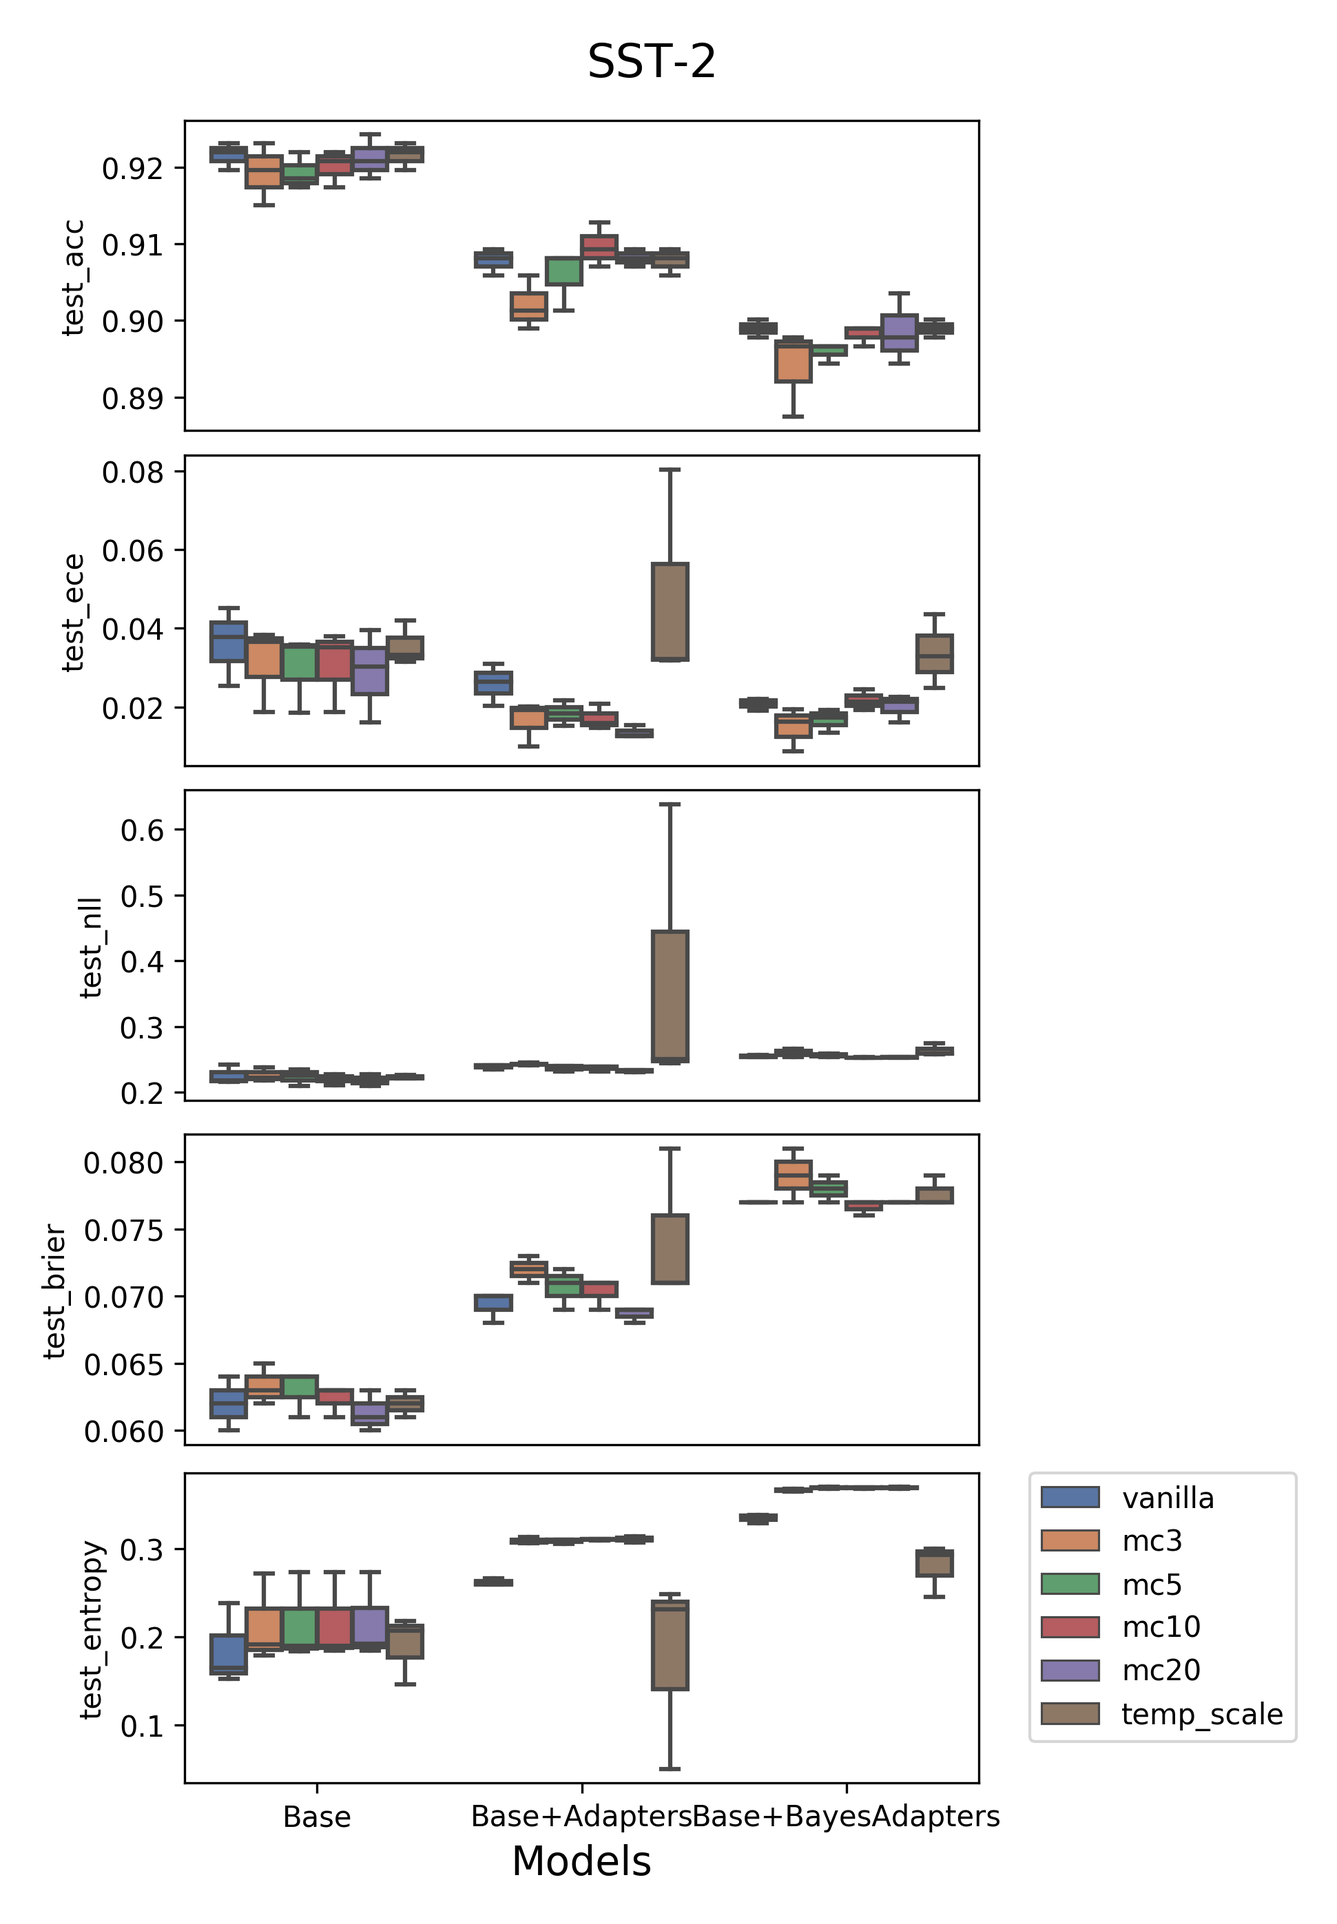
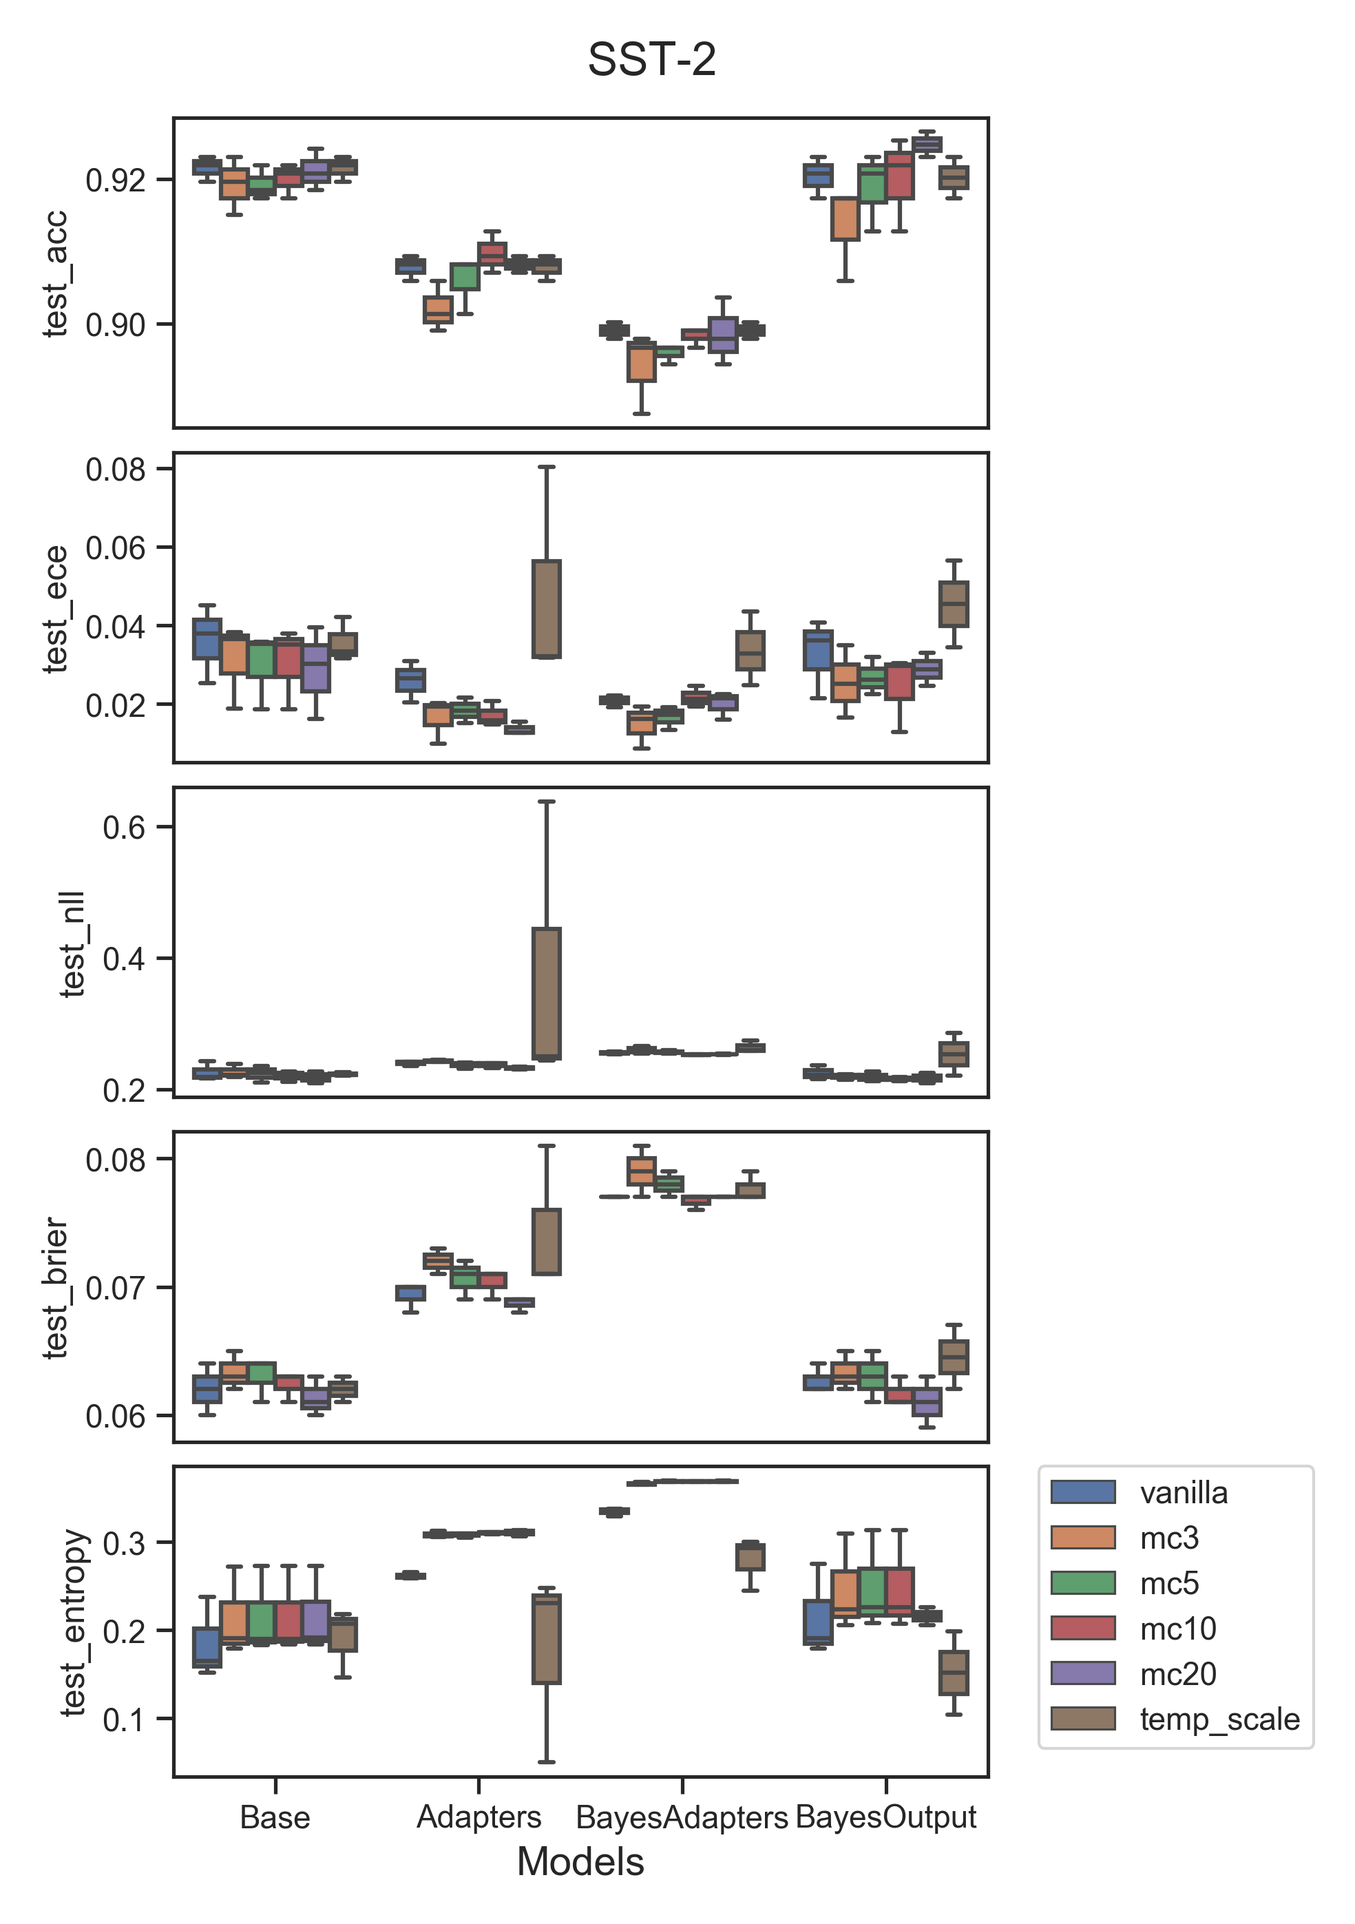
added reliability diagrams

Changed region(s): [[0.0309, 0.0623, 0.9583, 0.9964], [0.4328, 0.0, 0.5255, 0.0623]]

diff --git a/src/plotting.py b/src/plotting.py
@@ -3,14 +3,11 @@ import os
 import sys
 
 import matplotlib
-from matplotlib.backends.backend_pdf import PdfPages
 
-from src.general import create_dir
 from sys_config import RES_DIR
 
 matplotlib.use('Agg')
 import matplotlib.pyplot as plt
-import matplotlib.style as style
 import seaborn as sns
 import pandas as pd
 import numpy as np
@@ -18,18 +15,16 @@ import numpy as np
 sys.path.append("../../")
 sys.path.append(os.path.dirname(os.path.dirname(os.path.dirname(__file__))))
 
-# from sys_config import FIG_DIR
-# from utilities.general import create_dir
 
 def read_results_json(seeds, path, learning_rate, per_gpu_train_batch_size, num_train_epochs,
-                      indicators, methods, task_name, identity_init=False, bayes_output=False):
+                      indicators, methods, task_name, identity_init=False, ece=False):
     df = pd.DataFrame()
     for seed in seeds:
         exp_path = os.path.join(path, 'seed_{}_lr_{}_bs_{}_epochs_{}'.format(seed, learning_rate,
-                                                                            per_gpu_train_batch_size,
-                                                                            int(num_train_epochs)))
+                                                                             per_gpu_train_batch_size,
+                                                                             int(num_train_epochs)))
         if identity_init: exp_path += '_identity_init'
-        if identity_init: exp_path += '_bayes_output'
+
         if not os.path.exists(exp_path): pass
         df_ = pd.DataFrame()
         for ind in indicators:
@@ -42,41 +37,61 @@ def read_results_json(seeds, path, learning_rate, per_gpu_train_batch_size, num_
                 else:
                     with open(res_path) as json_file:
                         results = json.load(json_file)
-                        if ind is None: _ind = 'Base'
-                        if ind=='adapter': _ind = 'Adapters'
-                        if ind=='bayes_adapter': _ind = 'BayesAdapters'
-                        if ind=='bayes_adapter' and identity_init: _ind = 'BayesAdapters+Identity'
-                        if bayes_output: _ind = 'BayesOutput'
+                        if ece:
+                            val_results_bins = results['val_results']['ece']['bins']
+                            test_results_bin = results['test_results']['ece']['bins']
+                            df0 = pd.DataFrame(
+                                {'val_accs': [a['acc'] if a['acc'] != 0.0 else None for bin, a in
+                                              val_results_bins.items()],
+                                 'val_confs': [a['conf'] if a['acc'] != 0.0 else None for bin, a in
+                                               val_results_bins.items()],
+                                 'test_accs': [a['acc'] if a['acc'] != 0.0 else None for bin, a in
+                                               test_results_bin.items()],
+                                 'test_confs': [a['conf'] if a['acc'] != 0.0 else None for bin, a in
+                                                test_results_bin.items()],
+                                 'bins': list(np.arange(0.5, 10.5, 1) * 0.1)})
+                            df0['method'] = method
+                            if ind is None: _ind = 'Base'
+                            if ind == 'adapter': _ind = 'Adapters'
+                            if ind == 'bayes_adapter': _ind = 'BayesAdapters'
+                            if ind == 'bayes_adapter' and identity_init: _ind = 'BayesAdapters+Identity'
+                            if ind == 'bayes_output': _ind = 'BayesOutput'
+                            df0['indicator'] = _ind
+                        else:
+                            if ind is None: _ind = 'Base'
+                            if ind == 'adapter': _ind = 'Adapters'
+                            if ind == 'bayes_adapter': _ind = 'BayesAdapters'
+                            if ind == 'bayes_adapter' and identity_init: _ind = 'BayesAdapters+Identity'
+                            if ind == 'bayes_output': _ind = 'BayesOutput'
 
-                        val_results = results['val_results']
-                        test_results = results['test_results']
-                        df0 = pd.DataFrame(
-                            {'val_acc': val_results['acc'],
-                             'val_ece': val_results['ece']['ece'],
-                             'val_nll': val_results['nll']['mean'],
-                             'val_entropy': val_results['entropy']['mean'],
-                             'val_brier': val_results['brier']['mean'],
-                             'test_acc': test_results['acc'],
-                             'test_ece': test_results['ece']['ece'],
-                             'test_nll': test_results['nll']['mean'],
-                             'test_entropy': test_results['entropy']['mean'],
-                             'test_brier': test_results['brier']['mean'],
-                             'method': method,
-                             'indicator':_ind}, index=[0])
+                            val_results = results['val_results']
+                            test_results = results['test_results']
+                            df0 = pd.DataFrame(
+                                {'val_acc': val_results['acc'],
+                                 'val_ece': val_results['ece']['ece'],
+                                 'val_nll': val_results['nll']['mean'],
+                                 'val_entropy': val_results['entropy']['mean'],
+                                 'val_brier': val_results['brier']['mean'],
+                                 'test_acc': test_results['acc'],
+                                 'test_ece': test_results['ece']['ece'],
+                                 'test_nll': test_results['nll']['mean'],
+                                 'test_entropy': test_results['entropy']['mean'],
+                                 'test_brier': test_results['brier']['mean'],
+                                 'method': method,
+                                 'indicator': _ind}, index=[0])
                         df_ = df_.append(df0, ignore_index=True)
 
-                    # df_['val_acc'] = val_acc
                     df_['dataset'] = task_name
                     df_['seed'] = seed
-                    # df_['num_samples'] = num_samples
 
         df = df.append(df_, ignore_index=True)
     return df
 
-def uncertainty_plot(task_name, seeds, model_type='bert', learning_rate='2e-05', per_gpu_train_batch_size=16,
-                     num_train_epochs='3', indicators=None, methods=["vanilla", "mc3", "mc5", "mc10", "mc20", "temp_scale"],
-                     identity_init=False, bayes_output=False):
 
+def uncertainty_plot(task_name, seeds, model_type='bert', learning_rate='2e-05', per_gpu_train_batch_size=16,
+                     num_train_epochs='3', indicators=None,
+                     methods=["vanilla", "mc3", "mc5", "mc10", "mc20", "temp_scale"],
+                     identity_init=False):
     path = os.path.join(RES_DIR, '{}_{}_100%'.format(task_name, model_type))
     if not os.path.exists(path): return
 
@@ -90,70 +105,17 @@ def uncertainty_plot(task_name, seeds, model_type='bert', learning_rate='2e-05',
     df = df.append(df_, ignore_index=True)
     if identity_init:
         df_ = read_results_json(seeds, path, learning_rate, per_gpu_train_batch_size, num_train_epochs,
-                            indicators, methods, task_name, identity_init=True)
+                                indicators, methods, task_name, identity_init=True)
         df = df.append(df_, ignore_index=True)
-    if bayes_output:
-        df_ = read_results_json(seeds, path, learning_rate, per_gpu_train_batch_size, num_train_epochs,
-                            indicators, methods, task_name, bayes_output=True)
-        df = df.append(df_, ignore_index=True)
-    # for seed in seeds:
-    #     exp_path = os.path.join(path, 'seed_{}_lr_{}_bs_{}_epochs_{}'.format(seed, learning_rate,
-    #                                                                         per_gpu_train_batch_size,
-    #                                                                         int(num_train_epochs)))
-    #     if identity_init: exp_path += '_identity_init'
-    #     if not os.path.exists(exp_path): pass
-    #     df_ = pd.DataFrame()
-    #     for ind in indicators:
-    #         for method in methods:
-    #             res_filename = '{}_results'.format(method)
-    #             if ind is not None: res_filename += '_{}'.format(ind)
-    #             res_path = os.path.join(exp_path, "{}.json".format(res_filename))
-    #             if not os.path.exists(res_path):
-    #                 pass
-    #             else:
-    #                 with open(res_path) as json_file:
-    #                     results = json.load(json_file)
-    #                     if ind is None: _ind = 'Base'
-    #                     if ind=='adapter': _ind = 'Base+Adapters'
-    #                     if ind=='bayes_adapter': _ind = 'Base+BayesAdapters'
-    #
-    #                     val_results = results['val_results']
-    #                     test_results = results['test_results']
-    #                     df0 = pd.DataFrame(
-    #                         {'val_acc': val_results['acc'],
-    #                          'val_ece': val_results['ece']['ece'],
-    #                          'val_nll': val_results['nll']['mean'],
-    #                          'val_entropy': val_results['entropy']['mean'],
-    #                          'val_brier': val_results['brier']['mean'],
-    #                          'test_acc': test_results['acc'],
-    #                          'test_ece': test_results['ece']['ece'],
-    #                          'test_nll': test_results['nll']['mean'],
-    #                          'test_entropy': test_results['entropy']['mean'],
-    #                          'test_brier': test_results['brier']['mean'],
-    #                          'method': method,
-    #                          'indicator':_ind}, index=[0])
-    #                     df_ = df_.append(df0, ignore_index=True)
-    #
-    #                 # df_['val_acc'] = val_acc
-    #                 df_['dataset'] = task_name
-    #                 df_['seed'] = seed
-    #                 # df_['num_samples'] = num_samples
-    #
-    #     df = df.append(df_, ignore_index=True)
-    # df = df_
+
     if not df.empty:
-        # df['indicator'].loc[(df['indicator'] == None)] = 'Base'
 
         for d in ['test', 'val']:
             fig, (ax1, ax2, ax3, ax4, ax5) = plt.subplots(5, sharex=True, figsize=(6.0, 9.0), constrained_layout=True)
-            # sns.boxplot(x="num_samples", y="ece", hue="method", data=df, ax=ax1, palette=sns.color_palette("hls", 5))
             sns.boxplot(x='indicator', y="{}_acc".format(d), hue="method", data=df, ax=ax1, palette="deep")
             sns.boxplot(x='indicator', y="{}_ece".format(d), hue="method", data=df, ax=ax2, palette="deep")
-            # sns.boxplot(x="num_samples", y="nll", hue="method", data=df, ax=ax2, palette=sns.color_palette("hls", 5))
             sns.boxplot(x='indicator', y="{}_nll".format(d), hue="method", data=df, ax=ax3, palette="deep")
-            # sns.boxplot(x="num_samples", y="brier", hue="method", data=df, ax=ax3, palette=sns.color_palette("hls", 5))
             sns.boxplot(x='indicator', y="{}_brier".format(d), hue="method", data=df, ax=ax4, palette="deep")
-            # sns.boxplot(x="num_samples", y="entropy", hue="method", data=df, ax=ax4, palette=sns.color_palette("hls", 5))
             sns.boxplot(x='indicator', y="{}_entropy".format(d), hue="method", data=df, ax=ax5, palette="deep")
 
             if task_name == "ag_news":
@@ -182,32 +144,114 @@ def uncertainty_plot(task_name, seeds, model_type='bert', learning_rate='2e-05',
             filename = "uncertainty_plot_{}".format(d)
             if identity_init: filename += '_identity'
 
-            # unc_dir = os.path.join(ex, 'uncertainty_plots')
-            # create_dir(unc_dir)
             plt.savefig(os.path.join(path, filename + '.png'),
                         dpi=300,
                         transparent=False, bbox_inches="tight", pad_inches=0.2)
 
-            # pdf
-            # pp = PdfPages(os.path.join(exp_path, filename + '.pdf'))
-            # pp.savefig(fig)
-            # pp.close()
     return
+
+
+def ece_plot(task_name, seeds, model_type='bert', learning_rate='2e-05', per_gpu_train_batch_size=16,
+             num_train_epochs='3', indicators=None, methods=["vanilla", "mc3", "mc5", "mc10", "mc20", "temp_scale"],
+             identity_init=False):
+    """
+    Reliability diagram
+    :return:
+    """
+    path = os.path.join(RES_DIR, '{}_{}_100%'.format(task_name, model_type))
+    if not os.path.exists(path): return
+
+    df = pd.DataFrame()
+
+    if type(seeds) is not list: seeds = [seeds]
+    if type(indicators) is not list: indicators = [indicators]
+
+    df_ = read_results_json(seeds, path, learning_rate, per_gpu_train_batch_size, num_train_epochs,
+                            indicators, methods, task_name, ece=True)
+    df = df.append(df_, ignore_index=True)
+    d = "test"
+
+    sns.set(style="ticks")
+    fig = plt.figure(figsize=(4.0, 3.5))
+    ax = fig.add_axes([0.1, 0.1, 0.8, 0.8])
+
+    ax.set_xlim([0, 1])
+    ax.set_xlim([0, 1])
+
+    plot_method = 'vanilla'
+    plotdf = df[df["method"] == plot_method]
+
+    base = plotdf[plotdf["indicator"] == 'Base']
+    base_adapt = plotdf[plotdf["indicator"] == 'Adapters']
+    base_bayes_adapt = plotdf[plotdf["indicator"] == 'BayesAdapters']
+    bayes_output = plotdf[plotdf["indicator"] == 'BayesOutput']
+
+    # code no error bars
+    # plt.plot(base_adapt['test_confs'], base_adapt['test_accs'], ls='-', color='dodgerblue', label='Adapters', marker='o', markersize=4)
+    # plt.plot(base_bayes_adapt['test_confs'], base_bayes_adapt['test_accs'], ls='-', color='orangered', label='BayesAdapters', marker='o', markersize=4)
+    # plt.plot(base['test_confs'], base['test_accs'], ls='-', color='lime', label='Base', marker='o', markersize=4)
+    # plt.plot(bayes_output['test_confs'], bayes_output['test_accs'], ls='-', color='magenta', label='BayesOutput', marker='o', markersize=4)
+
+    # find mean accuracy per bin
+    base_mean = list(base.groupby('bins', as_index=False)['test_accs'].mean()['test_accs'])
+    base_std = list(base.groupby('bins', as_index=False)['test_accs'].std()['test_accs'])
+    base_adapt_mean = list(base_adapt.groupby('bins', as_index=False)['test_accs'].mean()['test_accs'])
+    base_adapt_std = list(base_adapt.groupby('bins', as_index=False)['test_accs'].std()['test_accs'])
+    base_bayes_adapt_mean = list(base_bayes_adapt.groupby('bins', as_index=False)['test_accs'].mean()['test_accs'])
+    base_bayes_adapt_std = list(base_bayes_adapt.groupby('bins', as_index=False)['test_accs'].std()['test_accs'])
+    bayes_output_mean = list(bayes_output.groupby('bins', as_index=False)['test_accs'].mean()['test_accs'])
+    bayes_output_std = list(bayes_output.groupby('bins', as_index=False)['test_accs'].std()['test_accs'])
+
+    bins = list(base.groupby('bins', as_index=False)['test_accs'].mean()['bins'])
+
+    plt.errorbar(bins, base_adapt_mean, base_adapt_std, ls='-', color='dodgerblue', label='Adapters', marker='o',
+                 markersize=4)
+    plt.errorbar(bins, base_bayes_adapt_mean, base_bayes_adapt_std, ls='-', color='orangered', label='BayesAdapters',
+                 marker='o', markersize=4)
+    plt.errorbar(bins, base_mean, base_std, ls='-', color='lime', label='Base', marker='o', markersize=4)
+    if not bayes_output.empty: plt.errorbar(bins, bayes_output_mean, bayes_output_std, ls='-', color='magenta',
+                                            label='BayesOutput', marker='o', markersize=4)
+
+    plt.plot(np.arange(0, 1.2, 0.2), np.arange(0, 1.2, 0.2), color='black', ls='--')
+    plt.legend(loc='upper left', frameon=False)
+
+    plt.xlabel('Confidence', fontsize=14)
+    plt.ylabel('Accuracy', fontsize=14)
+
+    plt.title(task_name.upper())
+    plt.style.use("seaborn-colorblind")
+    filename = "reliability_diagram_{}_{}".format(d, plot_method)
+    if identity_init: filename += '_identity'
+
+    plt.savefig(os.path.join(path, filename + '.png'),
+                dpi=300,
+                transparent=False, bbox_inches="tight", pad_inches=0.2)
+
+    return
+
 
 if __name__ == '__main__':
 
-    # uncertainty plot
     # datasets = ['sst-2', 'mrpc', 'qnli', "cola", "mnli", "mnli-mm", "sts-b", "qqp", "rte", "wnli"]
-    datasets = ['rte']
+    datasets = ['rte', 'mrpc', 'qnli', 'sst-2']
 
-    epochs='5'
+
+    epochs = '5'
     for dataset in datasets:
-        # pass
+        print(dataset)
+        # acc + uncertainty plot
         uncertainty_plot(task_name=dataset,
-                         seeds=[1,2,19,729,982, 75, 281, 325, 195, 83, 4],
+                         seeds=[2, 19, 729, 982, 75, 281, 325, 195, 83, 4],
                          learning_rate='2e-05',
                          per_gpu_train_batch_size=32,
                          num_train_epochs='5',
-                         indicators=[None, 'adapter', 'bayes_adapter'],
-                         identity_init=False,
-                         bayes_output=True)
+                         indicators=[None, 'adapter', 'bayes_adapter', 'bayes_output'],
+                         identity_init=False)
+
+        ece_plot(task_name=dataset,
+                 seeds=[2, 19, 729, 982, 75, 281, 325, 195, 83, 4],
+                 learning_rate='2e-05',
+                 per_gpu_train_batch_size=32,
+                 num_train_epochs='5',
+                 indicators=[None, 'adapter', 'bayes_adapter', 'bayes_output'],
+                 identity_init=False, )

diff --git a/main_transformer.py b/main_transformer.py
@@ -998,7 +998,6 @@ if __name__ == '__main__':
             if args.use_bayes_adapter: filename += '_bayes_adapter'
             if args.bayes_output: filename += '_bayes_output'
             with open(os.path.join(dirname, '{}.json'.format(filename)), 'w') as f:
-            # with open(os.path.join(dirname, 'mc{}_results.json'.format(m)), 'w') as f:
                 json.dump(mc_results, f)
         # Temperature Scaling
         temp_model = tune_temperature(eval_dataset, args, model, return_model_temp=True)
@@ -1012,5 +1011,4 @@ if __name__ == '__main__':
         if args.use_bayes_adapter: filename += '_bayes_adapter'
         if args.bayes_output: filename += '_bayes_output'
         with open(os.path.join(dirname, '{}.json'.format(filename)), 'w') as f:
-        # with open(os.path.join(dirname, 'temp_scale_results.json'), 'w') as f:
             json.dump(temp_scores, f)
